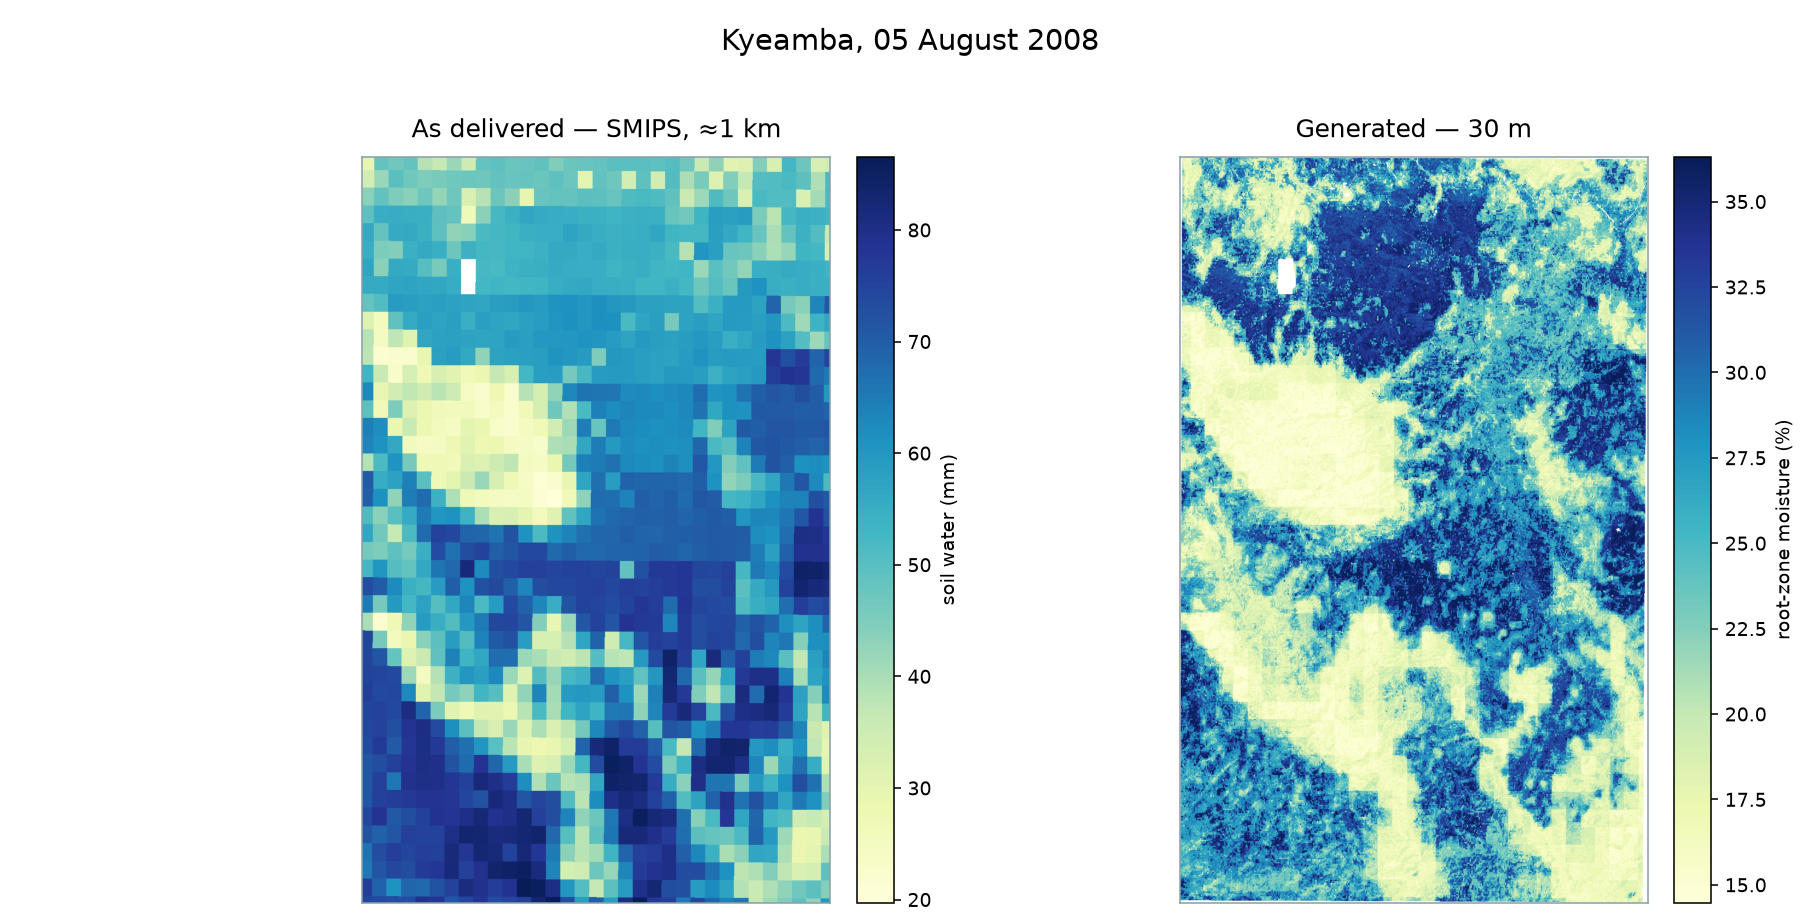
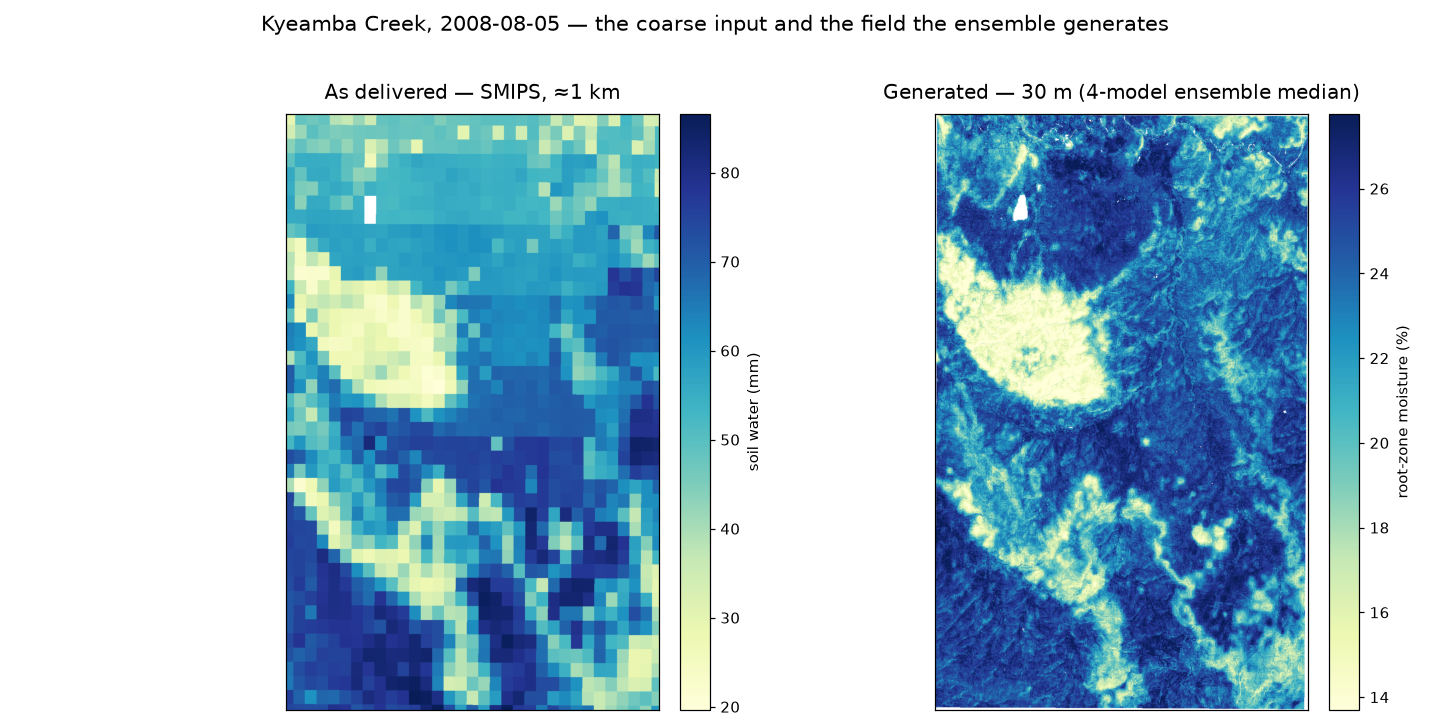
nn: 30 m maps from the hybrid, and the coarse-vs-fine pair from the ensemble
emt/nn/spatial.py gives the hybrid a map path. model8's map runs one water
balance per ~5 km forcing cell and adds 30 m structure only through the
readout; the hybrid's parameters vary with the statics, so every 30 m pixel
gets its own bucket (capacity, ET stress, recession from its own soil and
terrain) forced by its nearest SILO cell -- mirroring how it was trained.
1.6M pixel-buckets x 948 days x 3 members run on the GPU in ~4 min. The
forcing grid, rasters, spin-up convention and outputs are reused from
emt.model8.predict; the fitted model ships as data/models/nn_hybrid_q.pt
(35 KB of tensors, no sklearn pickle fragility).

handout/plot_downscale_pair_best.py renders the coarse/fine pair from the
4-model ensemble median (model6, model8, model9, nn-hybrid) instead of a
single early model, and loads model6 through persist rather than retraining.

Claude-Session: https://claude.ai/code/session_01SXb94n9c4xvUwWSoCtafSS

diff --git a/emt/nn/spatial.py b/emt/nn/spatial.py
@@ -1,0 +1,130 @@
+"""30 m maps from the hybrid: per-pixel bucket parameters, any date.
+
+model8's map runs ONE water balance per ~5 km forcing cell and adds 30 m
+structure only through the readout offsets. The hybrid's parameters vary with
+the statics, so here every 30 m pixel gets its own bucket -- capacity, ET
+stress and recession from its own soil/terrain -- forced by its nearest SILO
+cell, exactly mirroring how the model was trained (station statics + station
+forcing). The heavy lifting (SILO forcing grid, terrain/SLGA rasters, spin-up
+convention, output writing) is reused from :mod:`emt.model8.predict`.
+
+    PYTHONPATH=. python -m emt.nn.spatial --bbox 147.30 -35.52 147.62 -35.10 --date 2008-08-05
+"""
+from __future__ import annotations
+
+from pathlib import Path
+
+import numpy as np
+import pandas as pd
+import torch
+import xarray as xr
+from rasterio.enums import Resampling
+
+from emt.covariates import terrain_covariates
+from emt.slga import soil_covariates, SOIL_VARS
+from emt.model8 import predict as m8p
+from emt.nn.hybrid import HybridModel
+
+MODEL_PATH = Path("data/models/nn_hybrid_q.pt")
+
+
+def hybrid_map(bbox, day, model_path: str | Path = MODEL_PATH,
+               step_deg: float = m8p.GRID_STEP_DEG, chunk: int = 500_000,
+               verbose: bool = True) -> xr.Dataset:
+    """A 30 m root-zone soil-moisture field for any ``day`` (no SMIPS)."""
+    day = m8p._as_date(day)
+    model = HybridModel.load(model_path)
+    cfg = model.data
+    sim_start = m8p._spinup_start(day)
+    q = m8p.Query(bbox=list(bbox), start=day, end=day,
+                  stub=m8p._tag("nnhybmap", *[f"{v:.3f}" for v in bbox], day))
+
+    if verbose:
+        print("  terrain (30 m) ...", flush=True)
+    terr = terrain_covariates(q)
+    grid = terr["elevation"]
+    if verbose:
+        print("  SLGA soil ...", flush=True)
+    soil = soil_covariates(q)
+    rain, pet, aridity, lons, lats = m8p._forcing_grid(bbox, sim_start, day,
+                                                       step_deg, verbose)
+
+    # statics per pixel, in the model's fitted order (cfg.statics)
+    src = {**{v: (soil[v], Resampling.nearest) for v in SOIL_VARS},
+           **{v: (terr[v], Resampling.nearest) for v in terr.data_vars},
+           "aridity": (xr.DataArray(aridity.reshape(len(lats), len(lons)),
+                                    coords={"y": lats, "x": lons},
+                                    dims=("y", "x")).rio.write_crs(4326),
+                       Resampling.bilinear)}
+    cols = []
+    for v in cfg.statics:
+        a, resamp = src[v]
+        if a.rio.crs is None:
+            a = a.rio.write_crs(4326)
+        cols.append(a.rio.reproject_match(grid, resampling=resamp).values.ravel())
+    S = np.column_stack(cols).astype(np.float32)
+
+    # nearest forcing cell per pixel
+    gx, gy = np.meshgrid(grid.x.values, grid.y.values)
+    ix = np.abs(gx.ravel()[:, None] - lons[None, :]).argmin(1)
+    iy = np.abs(gy.ravel()[:, None] - lats[None, :]).argmin(1)
+    cell = (iy * len(lons) + ix).astype(np.int64)
+
+    dev = torch.device("cuda" if torch.cuda.is_available() else "cpu")
+    rain_t = torch.as_tensor(rain, dtype=torch.float32, device=dev)   # (T, n_cells)
+    pet_t = torch.as_tensor(pet, dtype=torch.float32, device=dev)
+    valid = np.isfinite(S).all(1)
+    Sz = torch.as_tensor(model.scaler.x(np.where(valid[:, None], S, 0.0)),
+                         dtype=torch.float32, device=dev)
+    cell_t = torch.as_tensor(cell, device=dev)
+
+    pred = np.full(len(S), np.nan, dtype="float32")
+    idx_all = np.flatnonzero(valid)
+    if verbose:
+        print(f"  simulating {len(idx_all):,} pixels x {rain.shape[0]} days "
+              f"x {len(model.nets)} members on {dev} ...", flush=True)
+    with torch.no_grad():
+        for start in range(0, len(idx_all), chunk):
+            idx = torch.as_tensor(idx_all[start:start + chunk], device=dev)
+            sz, cl = Sz[idx], cell_t[idx]
+            acc = torch.zeros(len(idx), device=dev)
+            for net in model.nets:
+                bucket = net.net.to(dev)
+                p = bucket.params(sz)
+                smax, alpha, k, theta_r, dtheta = p.unbind(1)
+                s = 0.5 * smax
+                denom = alpha * smax
+                for t in range(rain_t.shape[0]):
+                    s = s + rain_t[t, cl]
+                    aet = pet_t[t, cl] * torch.clamp(s / denom, max=1.0)
+                    s = torch.clamp(s - aet - k * s, min=0.0)
+                    s = torch.minimum(s, smax)
+                vwc = theta_r + dtheta * s / smax
+                if bucket.offset is not None:
+                    vwc = vwc + bucket.offset(sz).squeeze(-1)
+                acc += vwc
+            pred[idx_all[start:start + chunk]] = (acc / len(model.nets)).cpu().numpy()
+    if verbose:
+        print(f"  predicted {len(idx_all):,} pixels, mean {np.nanmean(pred):.1f}%",
+              flush=True)
+    return xr.Dataset({"sm_pred": (grid.dims, pred.reshape(grid.shape))},
+                      coords=grid.coords).rio.write_crs(grid.rio.crs)
+
+
+def main():
+    import argparse
+    ap = argparse.ArgumentParser(description=__doc__.split("\n")[0])
+    ap.add_argument("--bbox", type=float, nargs=4, required=True, metavar=("W", "S", "E", "N"))
+    ap.add_argument("--date", required=True)
+    ap.add_argument("--model", default=str(MODEL_PATH))
+    ap.add_argument("-o", "--out", default=None)
+    a = ap.parse_args()
+    ds = hybrid_map(tuple(a.bbox), a.date, a.model)
+    if a.out:
+        Path(a.out).parent.mkdir(parents=True, exist_ok=True)
+        ds["sm_pred"].rio.to_raster(a.out)
+        print("wrote", a.out)
+
+
+if __name__ == "__main__":
+    main()

diff --git a/handout/plot_downscale_pair_best.py b/handout/plot_downscale_pair_best.py
@@ -1,0 +1,93 @@
+"""One date, two panels: the coarse product beside the 30 m field — from the
+BEST mappable configuration, not a single early model.
+
+Left: SMIPS as delivered, ~1 km. Right: the median of the four mappable
+models' 30 m fields — nn-hybrid (per-pixel bucket), model8, model9, model6 —
+the map analogue of the recommended blocked ensemble (minus the SMIPS-anchor
+hybrid variant, whose training-era climatological static has no per-pixel
+equivalent). Every ingredient is the same public national data.
+
+Run from repo root::  PYTHONPATH=. python handout/plot_downscale_pair_best.py
+"""
+from __future__ import annotations
+import time
+from datetime import date
+from pathlib import Path
+
+import numpy as np
+import pandas as pd
+import matplotlib
+matplotlib.use("Agg")
+import matplotlib.pyplot as plt
+from rasterio.enums import Resampling
+
+from emt.queries import query_for_focus_area
+from emt.downscale import downscale
+from emt.smips import smips_lookback_day, smips_day
+from emt.slga import soil_covariates, SOIL_VARS
+from emt.antecedent import antecedent_grid, antecedent_day_layers
+from emt.model6 import model as m6mod
+from emt.model6.model import FEATURES as M6_FEATURES
+from emt.persist import fit_cached
+from emt.model8.predict import predict_map
+from emt.nn.spatial import hybrid_map
+
+REPO = Path(__file__).resolve().parent.parent
+FIG = REPO / "handout" / "figures" / "downscale_pair_single.png"
+DAY = date(2008, 8, 5)          # deep in the austral winter wet-up
+AREA = "kyeamba"
+CLIM_PERIOD = (date(2006, 1, 1), date(2010, 12, 31))
+t0 = time.time()
+def stamp(m): print(f"[{time.time()-t0:6.0f}s] {m}", flush=True)
+
+q = query_for_focus_area(AREA, DAY, DAY)
+bbox = tuple(q.bbox)
+
+# --- model6 (boosting, needs SMIPS + antecedent): fit-once via persist.
+# The shipped model6.joblib predates this env's scikit-learn and cannot be
+# unpickled, so the fit is cached under an env-tagged name; the CACHED FEATURE
+# TABLE supplies every column, so nothing is fetched to (re)fit ---
+m6 = fit_cached(m6mod, pd.read_csv(REPO / "data" / "model6_features_2006_2010.csv"), "model6_sk19")
+stamp("model6 ready (fit-once cache: model6_sk19)")
+lb = smips_lookback_day(q, DAY, workers=32)
+soil = soil_covariates(q)
+ant_cube = antecedent_grid(q, CLIM_PERIOD[0], DAY)
+extra = {**lb, **{v: soil[v] for v in SOIL_VARS}, **antecedent_day_layers(ant_cube, DAY)}
+ds6 = downscale(m6, q, DAY, M6_FEATURES, extra_layers=extra)
+grid = ds6["sm_pred"]
+stamp("model6 30 m field")
+
+# --- process track: model8 and model9 (bucket + offsets / pedotransfer) ---
+maps = {"model6": grid}
+for name in ("model8", "model9"):
+    ds = predict_map(bbox, DAY, model_name=name, save=False, plot=False)
+    maps[name] = ds["sm_pred"].rio.reproject_match(grid, resampling=Resampling.nearest)
+    stamp(f"{name} 30 m field")
+
+# --- nn-hybrid: per-pixel bucket parameters ---
+dsh = hybrid_map(bbox, DAY)
+maps["nn-hybrid"] = dsh["sm_pred"].rio.reproject_match(grid, resampling=Resampling.nearest)
+stamp("nn-hybrid 30 m field")
+
+stack = np.stack([m.values for m in maps.values()])
+best = np.nanmedian(stack, axis=0)
+stamp(f"ensemble median of {list(maps)}")
+
+coarse = smips_day(DAY, bbox).rio.write_crs(4326)
+coarse_on = coarse.rio.reproject_match(grid, resampling=Resampling.nearest)
+
+fig, ax = plt.subplots(1, 2, figsize=(13, 6.6))
+c0 = ax[0].imshow(coarse_on.values, cmap="YlGnBu", origin="upper")
+ax[0].set_title("As delivered — SMIPS, ≈1 km", fontsize=13, pad=10)
+fig.colorbar(c0, ax=ax[0], fraction=.046, pad=.03, label="soil water (mm)")
+c1 = ax[1].imshow(best, cmap="YlGnBu", origin="upper",
+                  vmin=np.nanpercentile(best, 2), vmax=np.nanpercentile(best, 98))
+ax[1].set_title("Generated — 30 m (4-model ensemble median)", fontsize=13, pad=10)
+fig.colorbar(c1, ax=ax[1], fraction=.046, pad=.03, label="root-zone moisture (%)")
+for a in ax:
+    a.set_xticks([]); a.set_yticks([])
+fig.suptitle(f"Kyeamba Creek, {DAY} — the coarse input and the field the ensemble generates",
+             fontsize=14, y=0.98)
+fig.tight_layout(rect=[0, 0, 1, 0.96])
+fig.savefig(FIG, dpi=110)
+print(f"wrote {FIG.relative_to(REPO)}")
